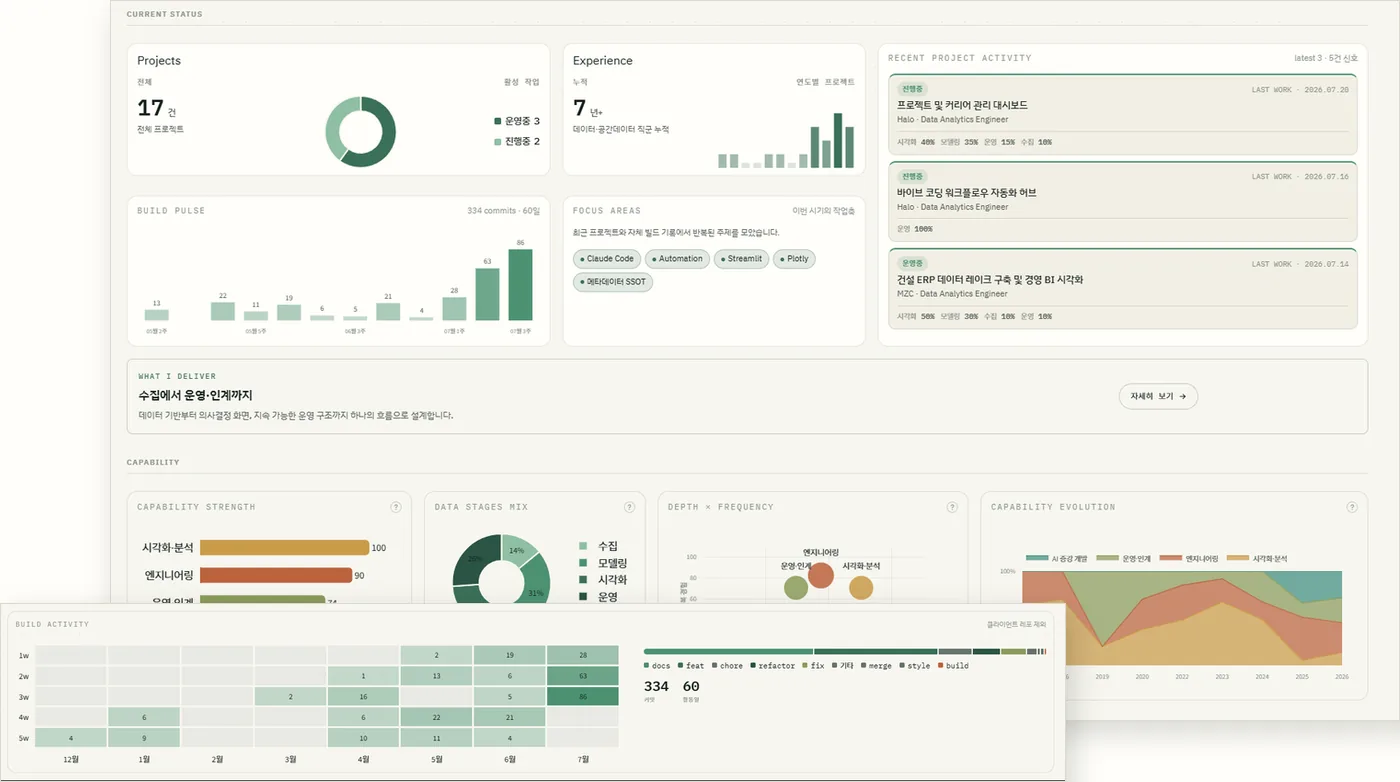
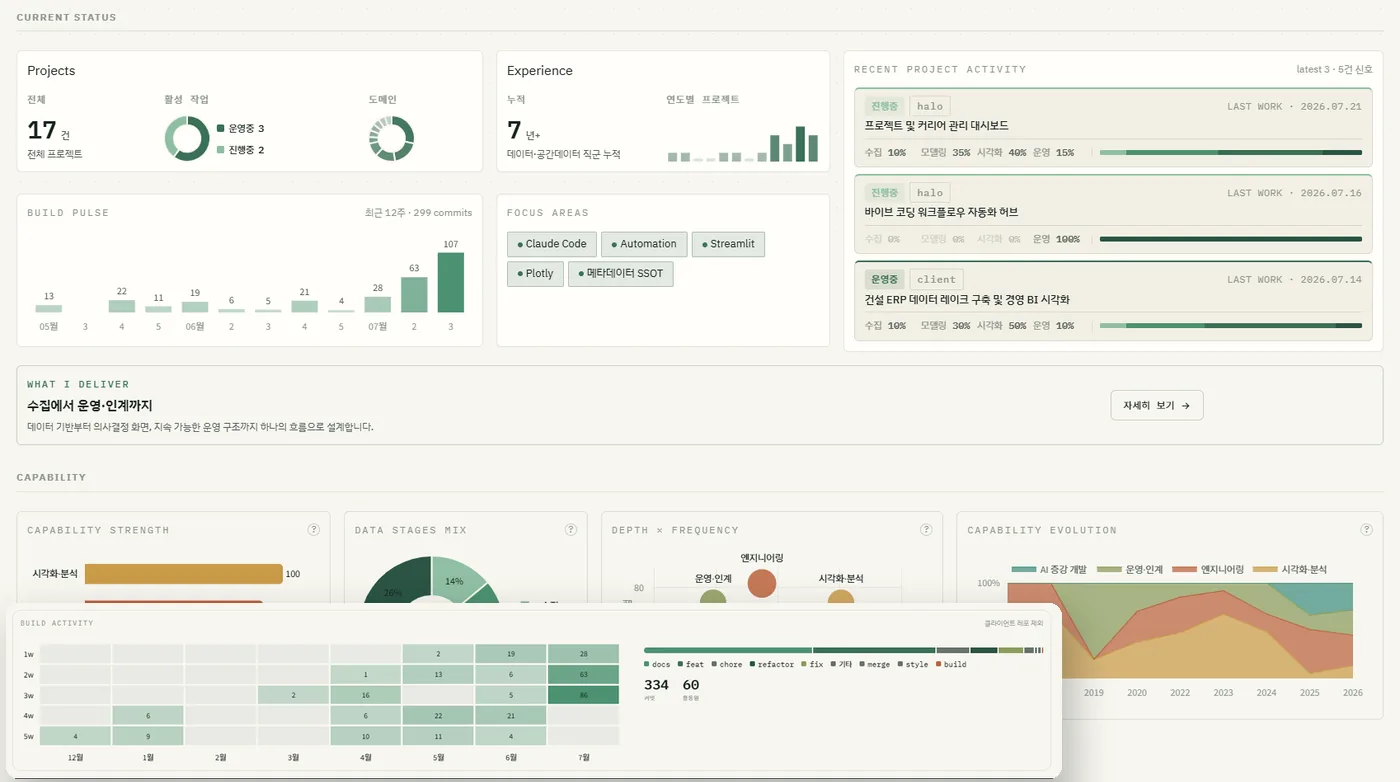
deploy: nav 이메일 복사 버튼·푸터 표기·프루프 이미지 갱신
- nav: GitHub·Dashboard 아이콘 제거, 이메일 복사 버튼 추가
- 푸터: Halo → 김소율(서로)
- proof: 프루프 스택 이미지 최신 대시보드로 재합성

diff --git a/index.html b/index.html
@@ -4,7 +4,7 @@
   landing/index.html 을 생성한다. 이 파일을 직접 브라우저로 열면 {{...}} 자리표시자가 그대로 보인다.
 
   자리표시자 목록 (build_landing.py 가 채운다):
-    17 완료 12 · 운영중 3 · 진행중 2 7 년+ 데이터·공간데이터 직군 누적 355
+    17 완료 12 · 운영중 3 · 진행중 2 7 년+ 데이터·공간데이터 직군 누적 400
     https://halodata.streamlit.app  — Streamlit 대시보드 절대 URL
     597a2112-2810-45c9-bb63-959b747ed4eb  — 환경변수에서 주입 (없으면 폼 대신 메일 주소 안내가 뜬다)
     2026-07-23       — 빌드 시각 (푸터 표기)
@@ -44,9 +44,13 @@
       <span class="role">Data Analytics Engineer</span>
     </a>
     <div class="ca-links">
-      <a href="https://github.com/syhalo" target="_blank" rel="noopener" aria-label="GitHub"><svg viewBox="0 0 24 24" fill="currentColor" aria-hidden="true"><path d="M12 .297c-6.63 0-12 5.373-12 12 0 5.303 3.438 9.8 8.205 11.385.6.113.82-.258.82-.577 0-.285-.01-1.04-.015-2.04-3.338.724-4.042-1.61-4.042-1.61C4.422 18.07 3.633 17.7 3.633 17.7c-1.087-.744.084-.729.084-.729 1.205.084 1.838 1.236 1.838 1.236 1.07 1.835 2.809 1.305 3.495.998.108-.776.417-1.305.76-1.605-2.665-.3-5.466-1.332-5.466-5.93 0-1.31.465-2.38 1.235-3.22-.135-.303-.54-1.523.105-3.176 0 0 1.005-.322 3.3 1.23.96-.267 1.98-.399 3-.405 1.02.006 2.04.138 3 .405 2.28-1.552 3.285-1.23 3.285-1.23.645 1.653.24 2.873.12 3.176.765.84 1.23 1.91 1.23 3.22 0 4.61-2.805 5.625-5.475 5.92.42.36.81 1.096.81 2.22 0 1.606-.015 2.896-.015 3.286 0 .315.21.69.825.57C20.565 22.092 24 17.592 24 12.297c0-6.627-5.373-12-12-12"/></svg></a>
       <a href="https://www.linkedin.com/in/soyoul-kim-9b648316b" target="_blank" rel="noopener" aria-label="LinkedIn"><svg viewBox="0 0 24 24" fill="currentColor" aria-hidden="true"><path d="M20.447 20.452h-3.554v-5.569c0-1.328-.027-3.037-1.852-3.037-1.853 0-2.136 1.445-2.136 2.939v5.667H9.351V9h3.414v1.561h.046c.477-.9 1.637-1.85 3.37-1.85 3.601 0 4.267 2.37 4.267 5.455v6.286zM5.337 7.433c-1.144 0-2.063-.926-2.063-2.065 0-1.138.92-2.063 2.063-2.063 1.14 0 2.064.925 2.064 2.063 0 1.139-.925 2.065-2.064 2.065zm1.782 13.019H3.555V9h3.564v11.452zM22.225 0H1.771C.792 0 0 .774 0 1.729v20.542C0 23.227.792 24 1.771 24h20.451C23.2 24 24 23.227 24 22.271V1.729C24 .774 23.2 0 22.222 0h.003z"/></svg></a>
-      <a class="pill" href="https://halodata.streamlit.app">Dashboard ↗</a>
+      <!-- 이메일 복사 버튼 — 클릭하면 clipboard 로 복사, "복사됨" 피드백. mailto 대신 복사인 이유:
+           방문자 대부분이 웹메일을 쓰므로 mailto 는 빈 데스크톱 메일앱을 여는 헛클릭이 되기 쉽다. -->
+      <button class="ca-mail" type="button" data-mail="syoul.halo@gmail.com" aria-label="이메일 주소 복사">
+        <svg viewBox="0 0 24 24" fill="none" stroke="currentColor" stroke-width="2" stroke-linecap="round" stroke-linejoin="round" aria-hidden="true"><rect x="3" y="5" width="18" height="14" rx="2"/><path d="m3 7 9 6 9-6"/></svg>
+        <span class="ca-mail-text">syoul.halo@gmail.com</span>
+      </button>
     </div>
   </div>
 </nav>
@@ -299,7 +303,7 @@
   </div>
 
   <div class="ca-foot-id">
-    <span class="glyph"></span><b>Halo</b> · 김소율
+    <span class="glyph"></span><b>Halo</b> → 김소율(서로)
     <small>Built 2026-07-23</small>
   </div>
 </footer>
@@ -422,6 +426,46 @@
         box.className = 'cf-status err'; box.textContent = '네트워크 문제로 전송하지 못했어요 — ' + TO_HINT + ' 로 보내주세요.';
       } finally {
         btn.disabled = false; btn.textContent = '보내기 →';
+      }
+    });
+  })();
+
+  // nav 이메일 복사 — 클릭하면 주소를 clipboard 로 복사하고 라벨을 "복사됨"으로 잠깐 바꾼다.
+  // clipboard API 가 막힌 환경(구형·비-https)에서는 textarea + execCommand 로 폴백한다.
+  (function () {
+    var btn = document.querySelector('.ca-mail');
+    if (!btn) return;
+    var label = btn.querySelector('.ca-mail-text');
+    var mail = btn.getAttribute('data-mail');
+    var original = label ? label.textContent : mail;
+    var reverting = null;
+
+    function fallbackCopy(text) {
+      var area = document.createElement('textarea');
+      area.value = text;
+      area.style.position = 'fixed';
+      area.style.opacity = '0';
+      document.body.appendChild(area);
+      area.select();
+      try { document.execCommand('copy'); } catch (e) {}
+      document.body.removeChild(area);
+    }
+
+    function flash() {
+      btn.classList.add('copied');
+      if (label) label.textContent = '복사됨 ✓';
+      clearTimeout(reverting);
+      reverting = setTimeout(function () {
+        btn.classList.remove('copied');
+        if (label) label.textContent = original;
+      }, 1600);
+    }
+
+    btn.addEventListener('click', function () {
+      if (navigator.clipboard && navigator.clipboard.writeText) {
+        navigator.clipboard.writeText(mail).then(flash, function () { fallbackCopy(mail); flash(); });
+      } else {
+        fallbackCopy(mail); flash();
       }
     });
   })();

diff --git a/styles.css b/styles.css
@@ -273,6 +273,45 @@ body {
   border-color: var(--ink);
 }
 
+/* 이메일 복사 버튼 — pill 톤을 따르되 이메일이라 대문자 변환은 끈다.
+   copied 상태는 tone3(그린)으로 잠깐 물들여 "복사됨"을 색으로도 알린다. */
+.ca-links .ca-mail {
+  display: inline-flex;
+  align-items: center;
+  gap: 8px;
+  font-family: var(--mono);
+  font-size: 12.5px;
+  letter-spacing: .04em;
+  text-transform: none;
+  color: var(--ink);
+  background: none;
+  border: 1px solid var(--line2);
+  padding: 9px 14px;
+  border-radius: var(--radius-md);
+  white-space: nowrap;
+  cursor: pointer;
+  transition: .2s;
+}
+
+.ca-links .ca-mail:hover {
+  background: var(--ink);
+  color: var(--bg);
+  border-color: var(--ink);
+}
+
+.ca-links .ca-mail svg {
+  display: block;
+  width: 16px;
+  height: 16px;
+}
+
+.ca-links .ca-mail.copied,
+.ca-links .ca-mail.copied:hover {
+  background: var(--tone3);
+  color: var(--bg);
+  border-color: var(--tone3);
+}
+
 @media(max-width:760px) {
   .ca-links a:not(.pill) {
     display: none;
